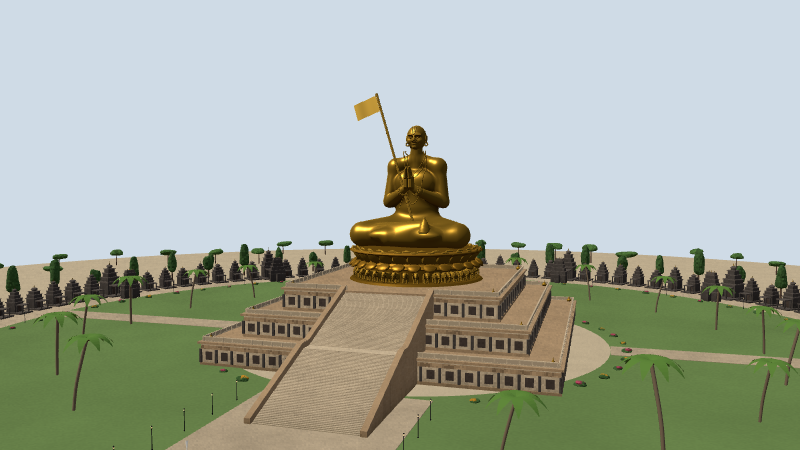
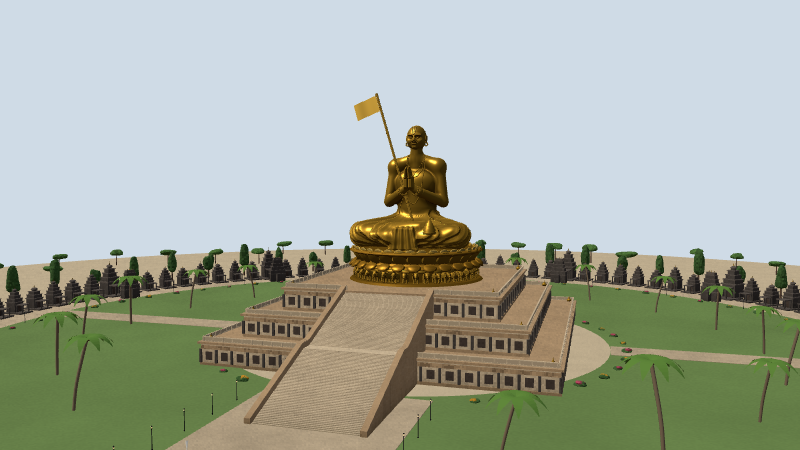
Statue of Equality: dhoti folds, a slimmer build, a smile and a fuller lotus
crossLegged() takes dhoti, slim and face options; the defaults are unchanged.

Claude-Session: https://claude.ai/code/session_01TMbkMUFX1zfQeBmFbMukXX

Changed region(s): [[0.4375, 0.3422, 0.5938, 0.56]]

diff --git a/js/parts/figures.js b/js/parts/figures.js
@@ -1055,14 +1055,15 @@ const HAND_POSES = {
 // The upper body, its shoulders at (±0.17, sy, oz): waist, chest and bust, shoulders, neck, the head
 // and what covers it, and the arms in their poses. head: 'hair' (waved, drawn back to a knot),
 // 'queen' (a veil and a small crown) or 'helmet' (Britannia's, crested); stout: the fuller figure
-// and the face of age.
-function upperBody(sy, oz, { right = 'down', left = 'down', head = 'hair', stout = false, male = false, hand: handOpt = null, mitten = false } = {}) {
-  const dy = sy - 1.41, Y = (y) => y + dy, Z = (z) => z + oz, w = stout ? 1.2 : male ? 1.12 : 1;
+// and the face of age; slim: a man's body without the breadth and the heavy arms; face: options
+// for face(), over the defaults.
+function upperBody(sy, oz, { right = 'down', left = 'down', head = 'hair', stout = false, male = false, slim = false, face: faceOpts = {}, hand: handOpt = null, mitten = false } = {}) {
+  const dy = sy - 1.41, Y = (y) => y + dy, Z = (z) => z + oz, w = stout ? 1.2 : male && !slim ? 1.12 : 1, ar = slim ? 0.86 : 1;
   const parts = [
     [E([0, Y(1.08), Z(0)], [0.135 * w, 0.09, 0.1 * w]), 0],
     [E([0, Y(1.27), Z(0.0)], [0.16 * w, 0.13, 0.098 * w]), 0.06],
     // The bust; or a man's chest, its muscles broad and flat.
-    male ? [mirrorX(E([0.07, Y(1.3), Z(0.055)], [0.075, 0.055, 0.035])), 0.05] : [mirrorX(E([0.06 * w, Y(1.285), Z(0.065 * w)], [0.05 * w, 0.045 * w, 0.04 * w])), 0.05],
+    male ? [mirrorX(E([0.07, Y(1.3), Z(slim ? 0.045 : 0.055)], [0.075, 0.055, 0.035])), 0.05] : [mirrorX(E([0.06 * w, Y(1.285), Z(0.065 * w)], [0.05 * w, 0.045 * w, 0.04 * w])), 0.05],
     [mirrorX(E([0.17, Y(1.405), Z(0)], [0.06, 0.055, 0.06])), 0.04],
     // The slope from the neck to each shoulder.
     [mirrorX(cone([0.03, Y(1.46), Z(-0.01)], [0.16, Y(1.42), Z(-0.005)], 0.05, 0.05)), 0.04],
@@ -1076,7 +1077,7 @@ function upperBody(sy, oz, { right = 'down', left = 'down', head = 'hair', stout
     // On desktops the body's forearm stops short of the wrist, so its rounded end lies inside the
     // hand's own wrist instead of standing over the palm.
     const end = detail.low ? wrist : wrist.map((v, i) => v - u[i] * 0.035);
-    parts.push([cone(sh, elbow, 0.056, 0.046), 0.03], [cone(elbow, end, 0.044, detail.low ? 0.034 : 0.0345), 0.015]);
+    parts.push([cone(sh, elbow, 0.056 * ar, 0.046 * ar), 0.03], [cone(elbow, end, 0.044 * ar, detail.low ? 0.034 : 0.0345), 0.015]);
     // The hand: on desktops sculpted with its fingers and meshed on its own (allegory() and
     // crossLegged() add it), the arm ending at the wrist here; on phones a plain lump on the arm.
     if (detail.low) parts.push([E(grip, [0.038, 0.046, 0.038]), 0.012]);
@@ -1091,7 +1092,7 @@ function upperBody(sy, oz, { right = 'down', left = 'down', head = 'hair', stout
     upper[side < 0 ? 'r' : 'l'] = [sh, elbow];
   }
   const S = 0.0076, P = (x, y, z) => [x * S, Y(1.628) + y * S * 1.05, Z(0.015) + z * S];
-  const faceF = face(P, S, { full: stout ? 1.8 : 0.2, age: stout ? 0.8 : 0, lids: 0.55 });
+  const faceF = face(P, S, { full: stout ? 1.8 : 0.2, age: stout ? 0.8 : 0, lids: 0.55, ...faceOpts });
   let top;
   if (head === 'queen') {
     // The veil falls from under the crown over the back of the head to the shoulders.
@@ -1359,12 +1360,13 @@ export function hold(g, fig, side, kind, m, { axis = [0, 1, 0], spin = 0, offset
 // knees, the shins crossed in front with the feet tucked, a cloth over the lap whose end falls over
 // the seat's front edge (drop: how far), and the upper body from upperBody() (shoulders at 0.62).
 // For a sage (male: bare-chested, with malas and armbands) or a goddess (with a necklace);
-// adorn: false leaves the malas, armbands and necklace off, for a figure dressed by its monument.
+// adorn: false leaves the malas, armbands and necklace off, for a figure dressed by its monument;
+// dhoti: the cloth round the waist and over the legs in folds, its pleated end between the knees.
 function crossLeggedField(opts = {}) {
-  const { male = false, drop = 0, adorn = true } = opts, up = upperBody(0.62, -0.02, opts);
+  const { male = false, drop = 0, adorn = true, dhoti = false, slim = false } = opts, up = upperBody(0.62, -0.02, opts);
   const parts = [
     ...up.parts,
-    [E([0, 0.36, -0.03], [0.15 * (male ? 1.12 : 1), 0.16, 0.115]), 0.06],
+    [E([0, 0.36, -0.03], [0.15 * (male && !slim ? 1.12 : 1), 0.16, 0.115]), 0.06],
     [E([0, 0.15, -0.04], [0.21, 0.13, 0.17]), 0.06],
     [mirrorX(cone([0.1, 0.14, -0.01], [0.37, 0.11, 0.2], 0.115, 0.09)), 0.06],
     [cone([0.37, 0.1, 0.23], [-0.12, 0.09, 0.33], 0.075, 0.055), 0.04],
@@ -1387,7 +1389,22 @@ function crossLeggedField(opts = {}) {
     }
     for (const [a, e] of Object.values(up.upper)) parts.push([cone(a.map((v, i) => v + (e[i] - v) * 0.4), a.map((v, i) => v + (e[i] - v) * 0.47), 0.058, 0.057), 0.01]);
   } else parts.push([(x, y, z) => torus([0, Y(1.45), 0.0], 0.1, 0.012)(x, y, (z - 0.035) * 1.5), 0.008]);
-  const body = blend(parts);
+  if (dhoti) {
+    // The cloth's rolled edge round the waist, dipping under the belly in front, and its pleated
+    // end laid in a fan before the crossed shins.
+    parts.push([(x, y, z) => torus([0, 0.262, 0], 0.158, 0.011)(x, y + 0.03 * Math.max(0, z + 0.03) / 0.13, (z + 0.035) * 1.22) - 0.0025 * Math.abs(Math.sin(Math.atan2(x, z + 0.035) * 26)), 0.008]);
+    parts.push([(x, y, z) => roundBox([0.0, 0.085, 0.362], [0.075 + (0.16 - y) * 0.25, 0.085, 0.014], 0.014)(x, y, z) + 0.0045 * Math.sin(x * 150 / (1 + (0.16 - y) * 2.5)), 0.02]);
+  }
+  const body0 = blend(parts);
+  // The dhoti's folds: creases over the thighs and knees, drawn from the lap out towards each
+  // knee and round it, fading out above the waist's cloth.
+  const body = !dhoti ? body0 : (x, y, z) => {
+    const d = body0(x, y, z);
+    if (y > 0.3 || d > 0.03) return d;
+    const m = Math.min(1, (0.3 - y) / 0.06) * Math.min(1, Math.max(0, (Math.abs(x) - 0.06) / 0.08 + Math.max(0, 0.12 - z) * 4));
+    const u = z + y * 0.8 - Math.abs(x) * 0.35;
+    return d + m * (0.0058 * Math.sin(u * 85 + 2 * Math.sin(Math.abs(x) * 14)) + 0.0018 * Math.sin(u * 190 + x * 25));
+  };
   const all = (x, y, z) => smin(body(x, y, z), y > 0.7 ? up.head(x, y, z) : Infinity, 0.012);
   return { f: flatBase(all, -drop - 0.01), lo: [-0.5, -drop - 0.02, -0.3], hi: [0.5, 1.15, 0.5], hands: up.hands, dirs: up.dirs, centre: up.centre };
 }

diff --git a/js/monuments/statue-of-equality.js b/js/monuments/statue-of-equality.js
@@ -18,7 +18,7 @@ export const STONE = mat('#d8c4a2', 0.85), TRIM = mat('#b89a74', 0.88), DARK = m
 const GOLD = mat('#e3b23c', 0.3, 0.8), GOLD_PALE = mat('#f0cc6a', 0.3, 0.75), GOLD_DEEP = mat('#c9952c', 0.34, 0.8);
 const FLAG = surface(mat('#e9bd45', 0.5, 0.5, { side: THREE.DoubleSide }), 'none');
 // In the figure's own units (1 = FIGURE / 0.955): where the staff stands in the lap, and the water pot.
-const FOOT = [0.07, 0.06, 0.2], POT = [0.15, 0.13, 0.33];
+const FOOT = [0.07, 0.06, 0.2], POT = [0.19, 0.125, 0.34];
 
 // His hands joined before the chest (anjali), in the figure's own units: two flat palms pressed
 // together and tipped a little forward, the fingers side by side, the thumbs towards the chest,
@@ -46,7 +46,7 @@ function anjaliField() {
 // a flag flying from its head; and the small domed water pot before the left knee.
 export function ramanuja() {
   const g = new THREE.Group(), s = new THREE.Group(), k = FIGURE / 0.955;
-  const fig = crossLegged('ramanuja-bare', { male: true, adorn: false, head: 'bare', right: 'chest', left: 'chest' }, GOLD, detail.low ? 0.012 : 0.009, { low: 2 });
+  const fig = crossLegged('ramanuja-dhoti2', { male: true, slim: true, adorn: false, dhoti: true, head: 'bare', right: 'chest', left: 'chest', face: { down: -0.7, full: 0.9, lip: 0.5, lids: 0.5 } }, GOLD, detail.low ? 0.012 : 0.009, { low: 2 });
   fig.mesh.clear();
   // Where the body's surface is, seen from the front at (x, y): the first face behind the arms.
   fig.mesh.updateMatrixWorld(true);
@@ -62,9 +62,9 @@ export function ramanuja() {
   const thread = [];
   for (let i = 0; i <= 16; i++) { const t = i / 16; thread.push([0.085 - 0.2 * t, 0.7 - 0.4 * t + 0.03 * Math.sin(t * Math.PI)]); }
   trim.add(mesh(new THREE.TubeGeometry(new THREE.CatmullRomCurve3(lay(thread, 0.003)), 40, 0.003, 6), GOLD));
-  for (const [w, drop, r] of [[0.07, 0.2, 0.0042], [0.085, 0.4, 0.0046]]) {
+  for (const [w, drop, r] of [[0.07, 0.17, 0.0042], [0.085, 0.37, 0.0046]]) {
     const pts = [];
-    for (let i = 0; i <= 28; i++) { const a = (i / 28) * Math.PI; pts.push([Math.cos(a) * w * (1 + 0.15 * Math.sin(a)), 0.735 - drop * Math.sin(a) ** 1.3]); }
+    for (let i = 0; i <= 28; i++) { const a = (i / 28) * Math.PI; pts.push([Math.cos(a) * w * (0.72 + 0.5 * Math.sin(a)), 0.705 - drop * Math.sin(a) ** 1.3]); }
     const c = new THREE.CatmullRomCurve3(lay(pts, r)), n = Math.round(c.getLength() / (r * 1.9));
     for (let i = 0; i <= n; i++) { const q = c.getPointAt(i / n); beads.push([q.x, q.y, q.z, r]); }
   }
@@ -130,6 +130,9 @@ function lotus() {
   g.add(lathe([[R + 1.6, 0], [R + 2.0, 0.35], [R + 1.2, 0.7], [R - 0.2, 1.2], [R + 0.6, 2.2], [R + 2.6, 3.6], [R + 3.2, LOTUS - y0 - 0.5], [R + 2.4, LOTUS - y0], [0, LOTUS - y0]], GOLD_DEEP, 64).translateY(y0));
   g.add(at(petalRing(R + 1.2, 27, 2.7, 3.6, 2.25, GOLD_DEEP, 0.3), 0, y0 + 1.5, 0));
   g.add(at(petalRing(R + 0.2, 27, 4.4, 3.9, 0.62, GOLD, 0.28), 0, y0 + 1.1, 0), at(petalRing(R - 0.2, 27, 3.9, 3.7, 0.36, GOLD, 0.28), 0, y0 + 1.3, 0).rotateY(Math.PI / 27));
+  // After photographs: a second, smaller row turned down under the first, and a third row of
+  // upright petals close under the seat.
+  g.add(at(petalRing(R + 0.6, 27, 1.9, 3.0, 2.45, GOLD, 0.3), 0, y0 + 0.75, 0).rotateY(Math.PI / 27), at(petalRing(R + 1.3, 36, 2.6, 2.9, 0.2, GOLD_PALE, 0.26), 0, y0 + 2.6, 0));
   return g;
 }
 
